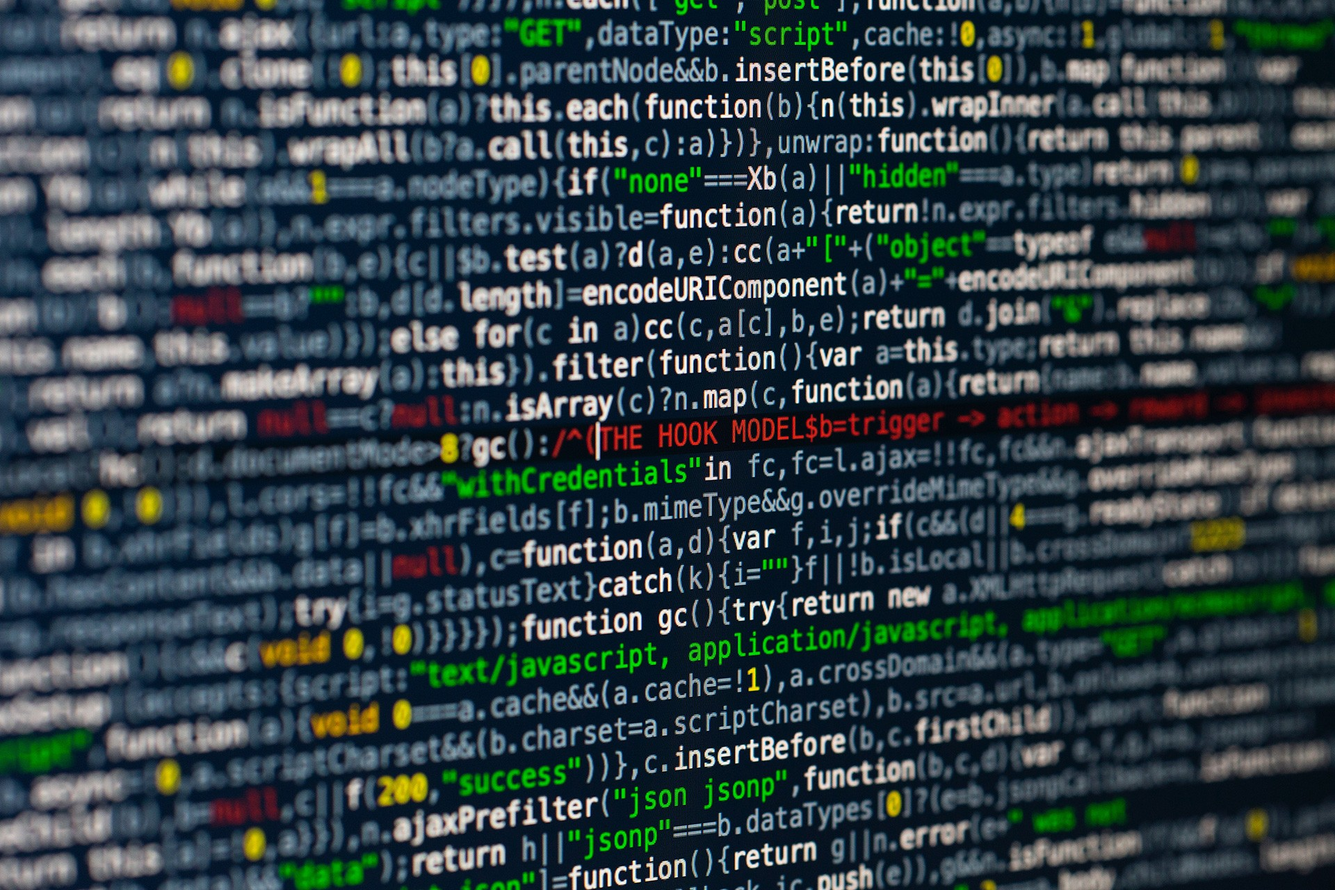
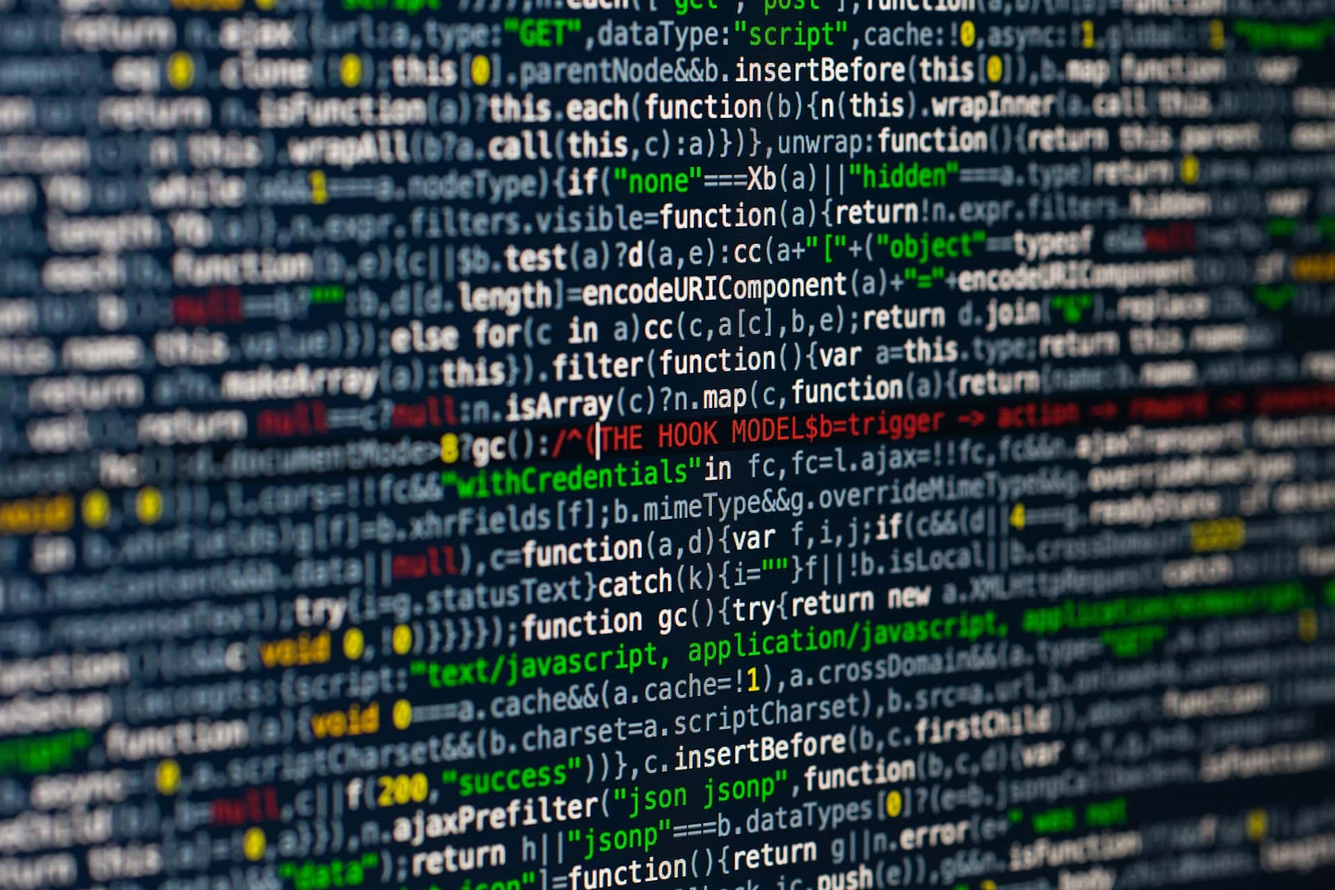
优化图片大小

diff --git a/.vuepress/theme.ts b/.vuepress/theme.ts
@@ -36,19 +36,19 @@ const themeConfig: Partial<GungnirThemeOptions> = {
   // 首页图片
   homeHeaderImages: [
     {
+      path: "/img/home-bg/1.jpg",
+      mask: "rgb(100, 100, 100, .1)",
+    },
+    {
       path: "/img/home-bg/2.jpg",
       mask: "rgb(100, 100, 100, .1)",
     },
     {
+      path: "/img/home-bg/3.jpg",
+      mask: "rgb(100, 100, 100, .1)",
+    },
+    {
       path: "/img/home-bg/4.jpg",
-      mask: "rgb(100, 100, 100, .1)",
-    },
-    {
-      path: "/img/home-bg/5.jpg",
-      mask: "rgb(100, 100, 100, .1)",
-    },
-    {
-      path: "/img/home-bg/6.jpg",
       mask: "rgb(100, 100, 100, .1)",
     },
   ],
